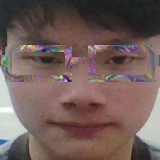
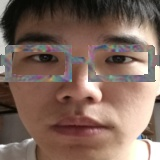
lin

diff --git a/contributed/adversarial.py b/contributed/adversarial.py
@@ -126,7 +126,7 @@ def main(args):
 			isExists=os.path.exists(pdir)
 			if not isExists:
 				os.makedirs(pdir)
-			target_index = 5
+			target_index = 7
 			while True:    
 				
 				feed_dict = {phase_train_placeholder: False}
@@ -157,8 +157,8 @@ def main(args):
 				#debug
 				# images_attack_rgb = tf.multiply(images_attack_rgb,255.0)
 				# if step == 4:
-				if flag8 == 0 and np.min(predictions[:,target_index]) > 0.80:
-					mdir = os.path.join(pdir, "adv-final-wen")
+				if flag8 == 0 and np.min(predictions[:,target_index]) > 0.93:
+					mdir = os.path.join(pdir, "adv-final-lin")
 					mdir_exist = os.path.exists(mdir)
 					if not mdir_exist:
 						os.makedirs(mdir)

diff --git a/contributed/adversarial-dodging.py b/contributed/adversarial-dodging.py
@@ -130,7 +130,7 @@ def main(args):
 			isExists=os.path.exists(pdir)
 			if not isExists:
 				os.makedirs(pdir)
-			target_index = 8
+			target_index = 5
 			while True:    
 				
 				feed_dict = {phase_train_placeholder: False}
@@ -161,8 +161,8 @@ def main(args):
 				#debug
 				# images_attack_rgb = tf.multiply(images_attack_rgb,255.0)
 				# if step == 4:
-				if flag8 == 0 and np.min(predictions[:,target_index]) < 0.054:
-					mdir = os.path.join(pdir, "adv-un-wen")
+				if flag8 == 0 and np.min(predictions[:,target_index]) < 0.028:
+					mdir = os.path.join(pdir, "adv-un-lin")
 					mdir_exist = os.path.exists(mdir)
 					if not mdir_exist:
 						os.makedirs(mdir)
